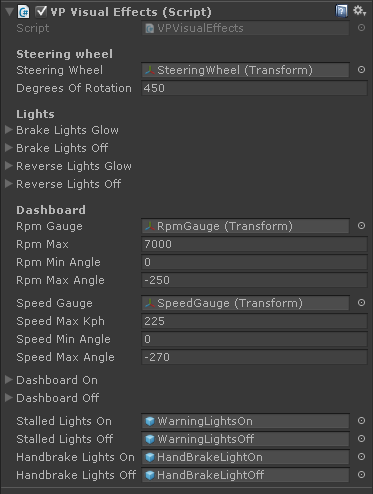
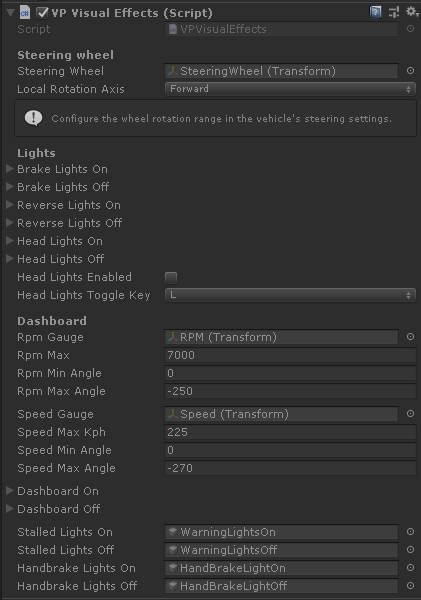
Updated Steering section and related documentation

diff --git a/docs/blocks/steering.md b/docs/blocks/steering.md
@@ -1,8 +1,122 @@
-# Steering helper
+# Steering
+
+The Steering section configures the properties of the steerable wheels, typically the front wheels.
 
 ![VP Vehicle Controller steering](/img/blocks/vpp-steering-inspector.png){: .clickview }
 
-&fa-warning:lg; Work In Progress
-{: .alert .alert-warning }
+### Steering modes
 
+The wheels that are steerable are defined in the Axles section:
+
+![VP Vehicle Controller steering](/img/blocks/vpp-steering-axles-inspector.png){: .clickview }
+
+Each steering axle can be configured as follows in the Axles section:
+
+Disabled
+:	No steering.
+
+Steerable
+:	Regular steering as configured in the Steering settings. This is the standard steering mode.
+
+Ratio
+:	This axle steers the given fraction of the demanded steering. Useful for additional steering
+	axles with smaller steering angle.
+
+Reference
+:	The steering ratio is defined by the longitudinal position of the axle relative to the Ratio
+ 	Reference transform configured in the Steering settings.
+
+	Useful for multi-axle vehicles with several steering axles. Instead of specifying a ratio value,
+	in this mode the ratio is defined by the distance of the axle to the Ratio Reference transform.
+
+### Steering Settings
+
+![VP Vehicle Controller steering](/img/blocks/vpp-steering-inspector.png){: .clickview }
+
+Max Steer Angle
+:	Maximum steer angle in degrees in plain conditions (no Ackerman, no ratio, etc).
+
+Toe Angle
+:	Toe angle in degrees. Positive value is convergence (Toe-in), negative value is divergence
+	(Toe-out).
+
+	[Reference: Toe Angle Basics](https://web.archive.org/web/20180722212251/http://www.rctek.com/technical/handling/toe_angle_effect_on_ackerman_steering_principle.html)<br>
+	[Reference: How Toe Angle Affects Ackerman Angles](https://web.archive.org/web/20180722212251/http://www.rctek.com/technical/handling/toe_angle_effect_on_ackerman_steering_principle.html)
+
+Ackerman
+:	Enables Ackerman geometry for the steering wheels. Requires Ackerman Reference.
+
+	[Reference: Ackerman Steering Geometry](https://en.wikipedia.org/wiki/Ackermann_steering_geometry)
+
+Ackerman Reference
+:	A local Transform in the car used as reference for calculating the Ackerman angles. The Ackerman
+	effect depends of the position of this Transform:
+
+	- True Ackerman: middle of the rear axle. Use this by default.
+	- More Ackerman: ahead of the rear axle.
+	- Less Ackerman: behind the rear axle.
+
+Ratio Reference
+:	A local Transform in the car used for calculating the steering ratio in multi-steering axles
+	configured as Reference in the Axles section. Typically, the position of this transform is
+	the middle of the axle that does _not_ steers.
+
+Steering Wheel Range
+:	Steering range in degrees of the vehicle's steering wheel, from end to end. This value is used
+	for rotating the graphical steering wheel object (see [VPVisualEffects](/components/vehicle-addons/#vpvisualeffects)),
+	as well as configuring the physical steering wheel device when used.
+
+# Scripting Reference
+
+### Brakes.Settings
+
+```
+namespace VehiclePhysics
+{
+public class Steering
+	{
+	[Serializable]
+	public class Settings
+		{
+		[Range(0,90)]
+		public float maxSteerAngle = 35.0f;
+
+		// Positive toe = toe in (front of the wheels pointing towards the centreline of the vehicle)
+		// Begative toe = toe out (front of the wheels pointing away the centreline of the vehicle)
+
+		[Range(-15,+15)]
+		public float toeAngle = 0.0f;
+
+		// Should this steering controller apply ackerman geometry? (requires ackermanReference)
+
+		public bool ackerman;
+
+		// Reference for the ackerman geometry. This transform will be typically located
+		// at the rear axle. Ackerman effect can be increased setting the position forward of the
+		// rear axle ("more ackerman") or decreased by setting it behind ("less ackerman").
+		//
+		// Note: We need the local position relative to the rigidbody.
+		// 		In practice we take localPosition and show a warning in the PropertyDrawer if
+		// 		the object has any scale applied or if there's no rigidbody on its parent.
+
+		public Transform ackermanReference;
+
+		// Reference for calculating the steering ratio on multiple steering axles. Wheels must be
+		// added with the Reference steering mode.
+		//
+		// The axle farthest to the reference receives steering ratio +1 (or -1 if it's located
+		// behind the reference). Wheels in between receive proportional ratios.
+
+		public Transform ratioReference;
+
+		// Degrees of rotation in the vehicle's steering wheel. Used to:
+		//	- Visually rotate the steering wheel mesh
+		//	- Configure physical steering wheel devices
+
+		[Range(180, 1200)]
+		public float steeringWheelRange = 600.0f;
+		}
+	}
+}
+```
 

diff --git a/docs/components/vehicle-addons.md b/docs/components/vehicle-addons.md
@@ -121,26 +121,42 @@ Rotates the vehicle's steering wheel object according to the actual steering val
 Steering Wheel
 :	Transform for the steering wheel geometry. It will be rotated locally around the Z axis.
 
-Degrees Of Rotation
-:	Total degrees of rotation of the steering wheel. It can be configured to match the value of
-	actual steering input controllers.
+Local Rotation Axis
+:	The local axis the steering wheel transform must be rotated around to provide the correct
+	rotation effect.
+
+&fa-info-circle:lg; The range of rotation of the steering wheel transform is configured in the
+	[Steering section](/blocks/steering){: .alert-link }
+{: .alert .alert-info }
 
 ##### Lights
 
 Shows or hides the given objects for simulating the various lights of the vehicle. All of them
 are optional.
 
-Brake Lights Glow
-:	Objects representing brake lights glowing
+Brake Lights On
+:	Objects representing brake lights on
 
 Brake Lights Off
-:	Object representing brake lights not glowing
+:	Objects representing brake lights off
 
-Reverse Lights Glow
-:	Objects representing reverse lights glowing
+Reverse Lights On
+:	Objects representing reverse lights on
 
-Brake Lights Off
-:	Object representing reverse lights not glowing
+Reverse Lights Off
+:	Objects representing reverse lights off
+
+Head Lights On
+:	Objects representing head lights on
+
+Head Lights Off
+:	Objects representing head lights off
+
+Head Lights Enabled
+:	Toggles head lights on or off
+
+Head Lights Toggle Key
+:	Key code for toggling head lights on and off
 
 ##### Dashboard
 
@@ -164,23 +180,21 @@ Speed Max Kph
 Speed Min Angle, Speed Max Angle
 :	Angles for the Speed Gauge at the minimum (0 rpm) and maximum (Speed Max Kph) values.
 
-These objects will be shown or hidden based on the actual state of the vehicle:
-
 Dashboard On
-:	Objects representing the dashboard turned on and glowing
+:	Objects representing the dashboard turned on
 
 Dashboard Off
 :	Objects representing the dashboard turned off
 
 Stalled Lights On
 :	Object representing the dashboard indicators for the stalled vehicle (typically battery, etc)
-	turned on and glowing.
+	turned on.
 
 Stalled Lights Off
-:	Object representing the above indicators turned off (not glowing).
+:	Object representing the above indicators turned off.
 
 Handbrake Lights On
-:	Object representing the dashboard indicator for the handbrake turned on and glowing.
+:	Object representing the dashboard indicator for the handbrake turned on.
 
 Handbrake Lights Off
-:	Object representing the dashboard indicator for the handbrake turned off (not glowing).
+:	Object representing the dashboard indicator for the handbrake turned off.

diff --git a/docs/components/vehicle-controller.md b/docs/components/vehicle-controller.md
@@ -120,8 +120,8 @@ Steering settings for this axle:
 - Steerable: regular steering as configured in the Steering settings (below).
 - Ratio: this axle steers a fraction of the demanded steering. Useful for multi-axle vehicles
 	with several steering axles.
-- Reference: the steering ratio is defined by the relative longitudinal position of the axle to
-	the reference transform configured at the Steering settings (below).
+- Reference: the steering ratio is defined by the longitudinal position of the axle relative
+	to the Ratio Reference transform configured in the Steering settings (below).
 
 ### Steering
 
